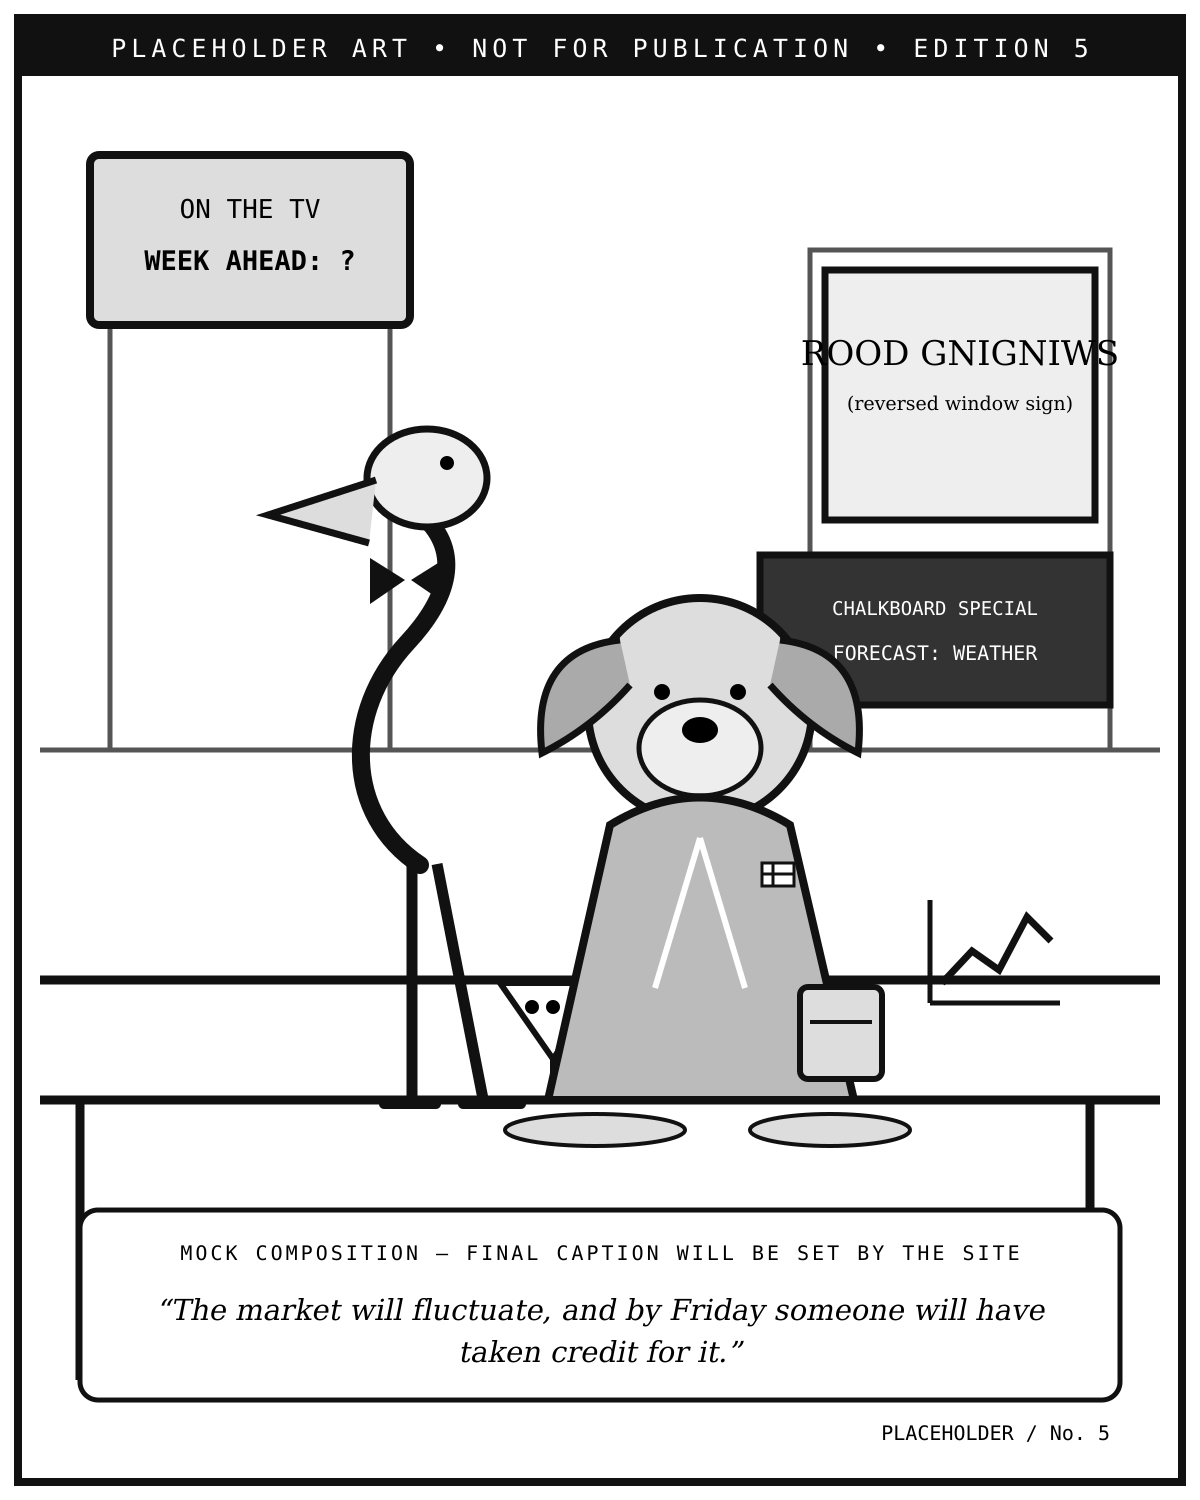
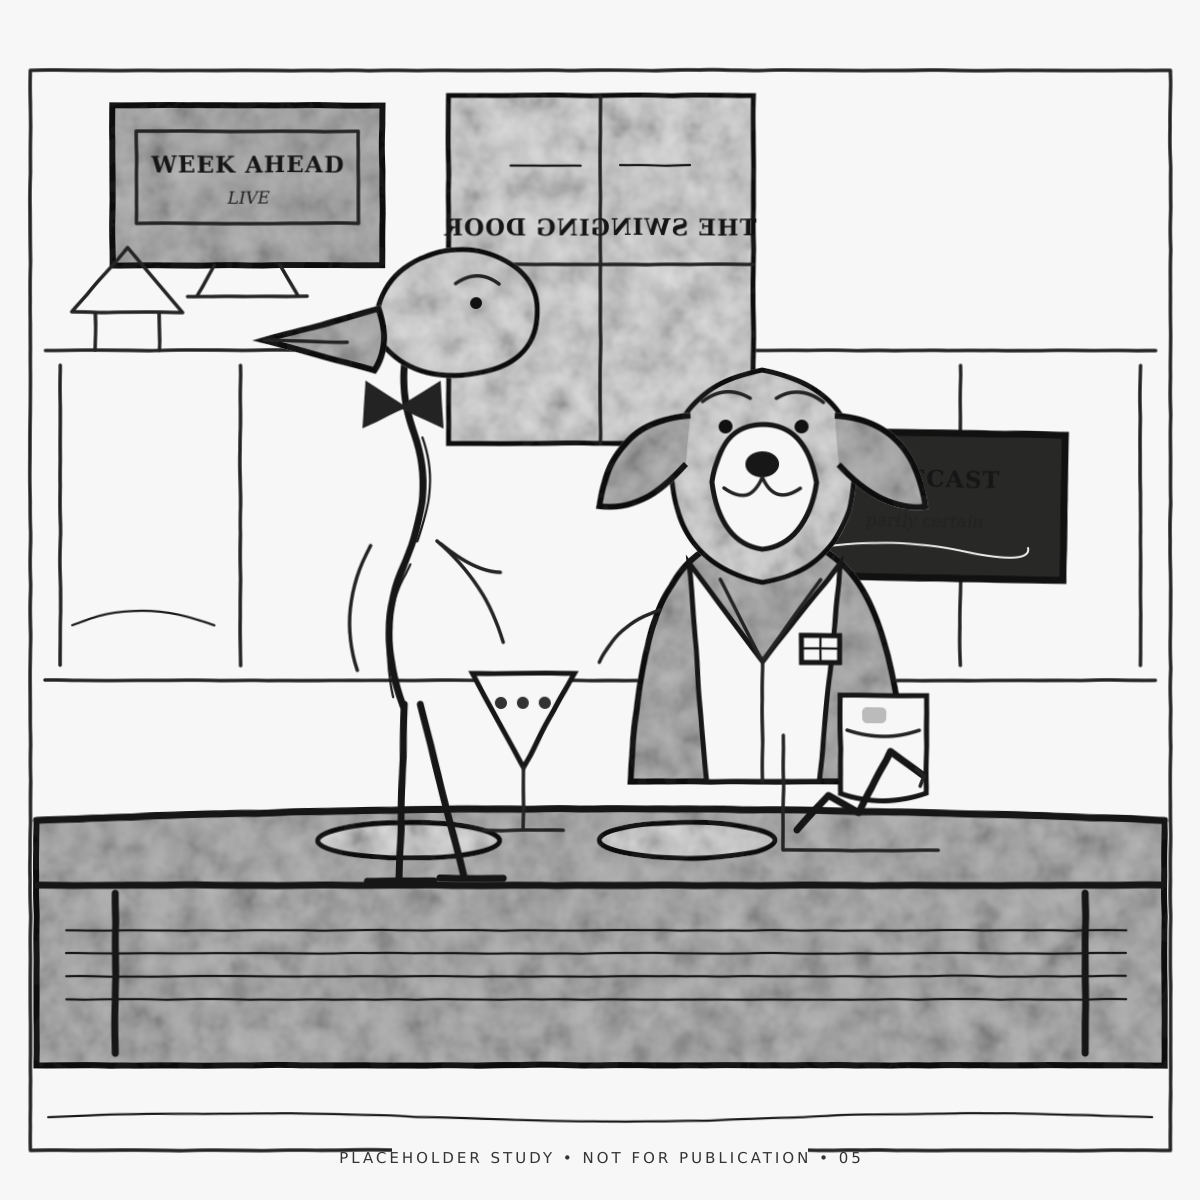
fix: restyle cartoon placeholders as monochrome editorial art

diff --git a/cartoons/PLACEHOLDER-ART.md b/cartoons/PLACEHOLDER-ART.md
@@ -1,6 +1,8 @@
 # Placeholder artwork inventory
 
-Every `cartoon.png` currently in the dated folders is **placeholder art**, not approved or publishable final artwork. The files are deliberately labelled inside the image so they cannot be mistaken for commissioned cartoons.
+Every `cartoon.png` currently in the dated folders is **placeholder art**, not approved or publishable final artwork. The files carry a discreet label inside the image so they cannot be mistaken for commissioned cartoons.
+
+The current studies follow the visual direction in the canon: strictly monochrome editorial linework, textured gray ink wash, an established Wall Street barroom, and dry American business-magazine restraint. Their captions are intentionally absent from the image because the website typesets captions below the panel from `meta.json`.
 
 ## Organization
 
